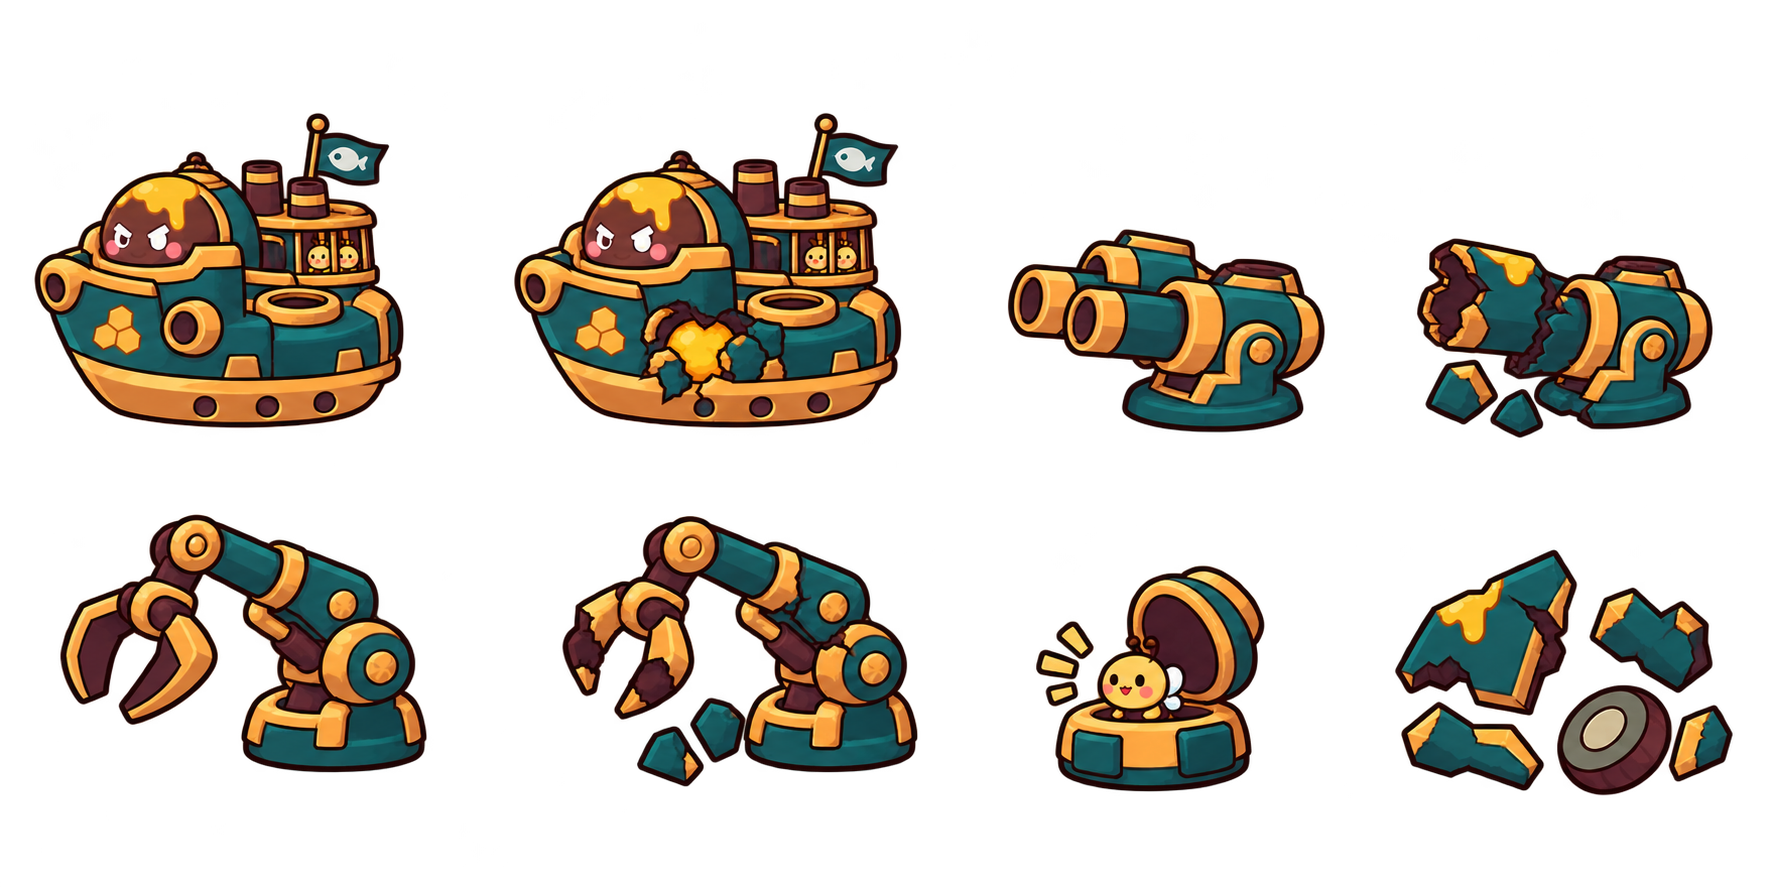
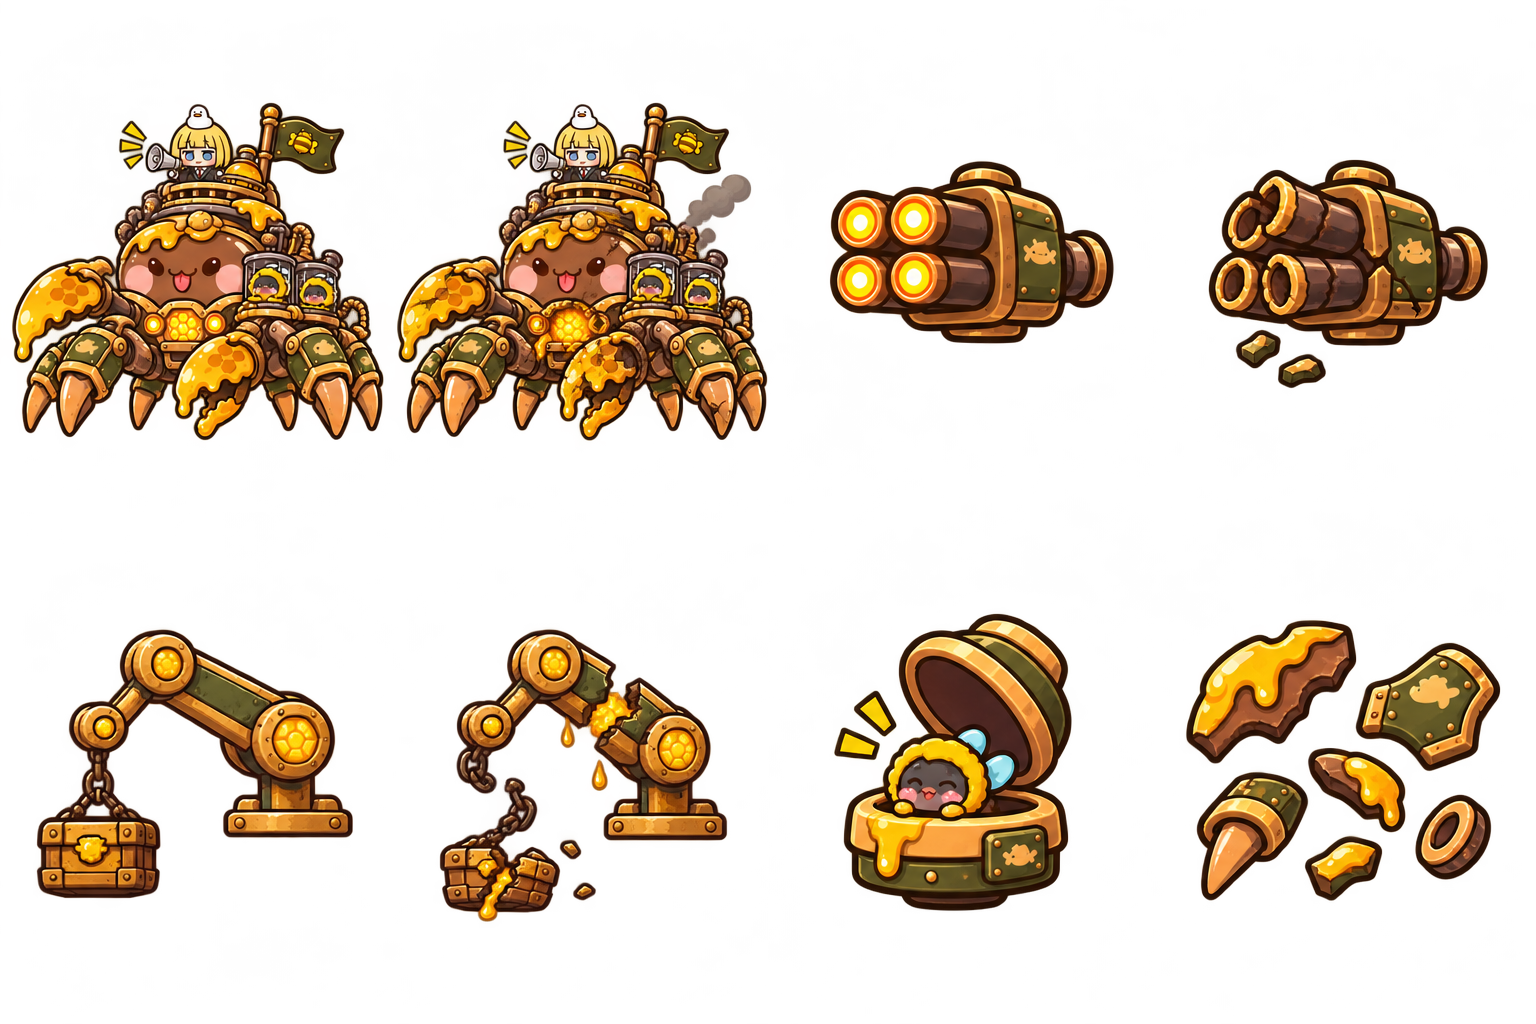
Replace town, harbor and fortress bosses with new designs
Regenerated the three boss parts sheets from the new crab, choco tank and
airship designs, refreshed SOFT_BOSSES with tools/pack-boss-sheet.py,
retuned weapon attach points and dropped the tread overlay for the tank.
Devlog updated with boss screenshots.

diff --git a/web/visuals.js b/web/visuals.js
@@ -5,7 +5,7 @@ const clamp=(x,a,b)=>Math.max(a,Math.min(b,x));
 const DRIVE_ART=[[192,55,689,542],[835,210,1435,542],[104,673,906,915],[1016,542,1434,955]];
 // Town strip wraps at x=1467 (that column repeats column 0), so the redrawn brick wall tiles without a seam.
 const GROUND_ART=[[0,14,1467,260],[0,269,1536,505],[0,516,1536,736],[0,749,1536,1024]];
-const SOFT_BOSSES={"walker":{"dest":[[44,82,470,462],[44,82,470,462],[84,202,413,419],[98,205,443,442],[43,122,458,382],[57,116,442,382],[54,40,459,452],[55,74,446,383]],"source":[[41,85,451,440],[487,84,904,440],[952,155,1319,435],[1372,180,1732,446],[64,551,416,808],[500,552,868,821],[965,489,1242,825],[1342,553,1730,825]]},"cannon":{"dest":[[39,110,486,473],[39,110,486,473],[37,105,457,456],[91,176,447,455],[70,101,469,356],[69,98,486,362],[26,45,419,399],[28,54,454,400]],"source":[[26,82,482,504],[486,82,947,504],[975,218,1362,497],[1386,251,1755,506],[73,575,437,823],[527,594,928,834],[994,571,1285,837],[1357,588,1728,852]]},"ship":{"dest":[[55,82,476,446],[55,82,476,446],[68,189,437,460],[69,166,427,460],[49,96,462,404],[134,140,381,406],[49,59,461,444],[51,100,464,430]],"source":[[34,113,404,428],[514,113,901,428],[1008,229,1325,432],[1417,238,1713,438],[60,514,427,772],[562,516,918,787],[1036,565,1265,792],[1395,550,1733,795]]},"tank":{"dest":[[76,105,467,463],[76,105,467,463],[85,200,408,422],[105,194,385,422],[80,175,413,382],[69,124,388,390],[41,76,419,449],[61,149,469,435]],"source":[[34,59,472,472],[498,60,933,475],[1002,239,1361,453],[1374,239,1746,471],[105,584,423,790],[538,586,872,814],[958,537,1259,817],[1340,554,1734,833]]}};
+const SOFT_BOSSES={"walker":{"dest":[[44,113,470,462],[44,113,470,462],[84,223,413,398],[98,232,443,415],[159,122,342,382],[156,116,343,382],[64,40,449,452],[68,74,433,383]],"source":[[8,142,384,450],[392,143,768,451],[768,206,1114,390],[1157,198,1503,382],[91,582,333,927],[461,552,703,897],[822,620,1082,898],[1177,630,1498,902]]},"cannon":{"dest":[[39,110,486,473],[39,110,486,473],[37,105,457,456],[91,176,447,455],[70,101,469,356],[69,98,486,362],[26,45,419,399],[28,54,454,400]],"source":[[26,82,482,504],[486,82,947,504],[975,218,1362,497],[1386,251,1755,506],[73,575,437,823],[527,594,928,834],[994,571,1285,837],[1357,588,1728,852]]},"ship":{"dest":[[66,82,465,446],[66,82,465,446],[68,206,437,443],[69,198,427,428],[75,96,436,404],[134,168,381,378],[101,59,409,444],[73,100,442,430]],"source":[[12,102,384,441],[396,102,768,441],[830,161,1114,344],[1206,163,1490,346],[36,629,353,899],[433,571,750,841],[834,613,1072,911],[1186,620,1501,901]]},"tank":{"dest":[[102,105,441,463],[102,105,441,463],[85,213,408,409],[105,223,385,393],[95,175,398,382],[69,148,388,366],[49,76,411,449],[83,149,447,435]],"source":[[12,96,384,489],[396,95,768,488],[768,193,1137,418],[1157,189,1526,414],[80,680,342,859],[454,680,716,859],[838,625,1086,880],[1174,628,1494,880]]}};
 // A capsule in local track coordinates. Arc length keeps links evenly spaced.
 function treadPoint(distance,length,radius){
  const total=2*length+2*Math.PI*radius;let s=((distance%total)+total)%total;

diff --git a/web/game.js b/web/game.js
@@ -135,7 +135,7 @@ const BOSSES={
 const BOSS_RIG={
  king:{sheet:'walker',k:1.35,base:.9,box:[44,82,470,462],home:300,core:[.58,.38],nameA:'턱 기관포 파괴',nameB:'미사일 포드 파괴',
   A:{u:.36,v:.64,pu:.74,pv:.6,ps:.5,mu:.18,mv:.6,box:[84,202,413,420],hp:.22,aim:.5},
-  B:{u:.86,v:.2,pu:.83,pv:.5,ps:.4,mu:.15,mv:.4,box:[43,122,458,383],hp:.18,rot:-.3},
+  B:{u:.8,v:.46,pu:.5,pv:.8,ps:.4,mu:.5,mv:.3,box:[159,122,342,382],hp:.18},
   H:{u:.6,v:.22,pu:.5,pv:.86,ps:.38}},
  cannon:{sheet:'cannon',k:1.15,base:.924,box:[39,110,486,473],home:330,core:[.53,.5],nameA:'꿀 박격포 파괴',nameB:'꿀 화염방사기 파괴',
   A:{u:.7,v:.4,pu:.5,pv:.86,ps:.38,mu:.17,mv:.33,box:[37,105,458,456],hp:.22},
@@ -143,11 +143,11 @@ const BOSS_RIG={
   H:{u:.84,v:.3,pu:.45,pv:.74,ps:.38}},
  boat:{sheet:'ship',k:1.4,base:.87,box:[54,82,476,446],home:260,core:[.54,.5],nameA:'갑판 포탑 파괴',nameB:'크레인 파괴',left:true,
   A:{u:.4,v:.36,pu:.6,pv:.86,ps:.36,mu:.17,mv:.43,box:[68,189,437,460],hp:.22,aim:.6},
-  B:{u:.74,v:.5,pu:.72,pv:.72,ps:.45,mu:.18,mv:.5,box:[49,95,462,404],hp:.18},
+  B:{u:1,v:.36,pu:.72,pv:.72,ps:.45,mu:.18,mv:.5,box:[49,95,462,404],hp:.18},
   H:{u:.62,v:.38,pu:.5,pv:.88,ps:.35}},
  tank:{sheet:'tank',k:1.5,base:.905,box:[76,104,467,463],home:330,core:[.47,.49],nameA:'주포 파괴',nameB:'측면 개틀링 파괴',
   A:{u:.36,v:.64,pu:.6,pv:.8,ps:.45,mu:.2,mv:.5,box:[85,200,408,422],hp:.2,aim:.2},
-  B:{u:.66,v:.62,pu:.55,pv:.7,ps:.45,mu:.2,mv:.47,box:[80,175,413,382],hp:.16},
+  B:{u:.74,v:.8,pu:.55,pv:.7,ps:.45,mu:.2,mv:.47,box:[80,175,413,382],hp:.16},
   H:{u:.6,v:.36,pu:.45,pv:.84,ps:.38}}};
 
 const STAGES=[

diff --git a/web/render.js b/web/render.js
@@ -490,7 +490,8 @@ function trackSidePoint(distance){
  const p=HoneyVisuals.treadPoint(distance,200,40),t=clamp(p.x/200,0,1);
  return {x:p.x*.72,y:p.y*(1-.24*t)-p.x*.09,visible:p.y>0||p.x>200};}
 function drawBossTracks(b,r){
- if(b.type!=='tank'&&b.type!=='cannon')return;
+ // The choco tank sheet paints its own treads and fish wheels; only the cannon still gets the animated overlay.
+ if(b.type!=='cannon')return;
  const d=HoneyVisuals.bossArt(r.sheet,0).dest,w=d[2]-d[0],h=d[3]-d[1];
  const distance=(b.track||0)*(b.flip?-1:1)/r.k*400/w;
  c.save();c.translate(b.x+(d[0]-256)*r.k,b.y+(d[1]-512*r.base)*r.k);c.scale(w*r.k/400,h*r.k/360);

diff --git a/tools/pack-boss-sheet.py b/tools/pack-boss-sheet.py
@@ -1,0 +1,90 @@
+"""Register a regenerated boss parts sheet (4 columns x 2 rows, any size) with the game's boss rig tables.
+
+Frames: 0 body, 1 damaged body, 2 weapon A, 3 A broken, 4 weapon B, 5 B broken, 6 hatch, 7 debris.
+For each frame the source rect is the alpha bounds inside its cell. Damaged/broken frames reuse the size of their intact
+frame (aligned to the main silhouette's bottom-centre) so swapping frames does not jump; extra smoke or fragments
+outside that box are cropped. The dest rect (512-unit rig space) keeps the old dest box: the new art is fitted inside
+it (bodies bottom-aligned so they stand on the same floor, parts centred), so hitboxes and attach points stay put.
+
+Usage: python tools/pack-boss-sheet.py <sheet-name> [...]   e.g. walker tank ship
+Rewrites the SOFT_BOSSES entries of those sheets in web/visuals.js and scripts/visual_motion.gd.
+(BOUNDS there measures the legacy *_stable.png sheets and is left alone.)
+"""
+import json, re, sys
+import numpy as np
+from PIL import Image
+
+ALPHA = 24
+
+
+def bbox(mask):
+    ys, xs = np.nonzero(mask)
+    return [int(xs.min()), int(ys.min()), int(xs.max()) + 1, int(ys.max()) + 1]
+
+
+def main_bbox(mask):
+    """Bounds of the largest connected blob (ignores loose fragments and smoke puffs)."""
+    from collections import deque
+    h, w = mask.shape
+    seen = np.zeros_like(mask, bool); best = None
+    for y0, x0 in zip(*np.nonzero(mask[::4, ::4])):
+        y0 *= 4; x0 *= 4
+        if seen[y0, x0]: continue
+        q = deque([(y0, x0)]); seen[y0, x0] = True; pts = []
+        while q:
+            y, x = q.popleft(); pts.append((y, x))
+            for dy, dx in ((1, 0), (-1, 0), (0, 1), (0, -1)):
+                ny, nx = y + dy, x + dx
+                if 0 <= ny < h and 0 <= nx < w and mask[ny, nx] and not seen[ny, nx]:
+                    seen[ny, nx] = True; q.append((ny, nx))
+        if best is None or len(pts) > len(best): best = pts
+    ys = [p[0] for p in best]; xs = [p[1] for p in best]
+    return [min(xs), min(ys), max(xs) + 1, max(ys) + 1]
+
+
+def fit(src, box, bottom):
+    sw, sh = src[2] - src[0], src[3] - src[1]
+    bw, bh = box[2] - box[0], box[3] - box[1]
+    s = min(bw / sw, bh / sh); w, h = sw * s, sh * s
+    x0 = (box[0] + box[2]) / 2 - w / 2
+    y0 = box[3] - h if bottom else (box[1] + box[3]) / 2 - h / 2
+    return [round(x0), round(y0), round(x0 + w), round(y0 + h)]
+
+
+def pack(name, old_dest):
+    im = np.asarray(Image.open(f"assets/generated/bosses/{name}_ink.png").convert("RGBA"))
+    H, W = im.shape[:2]; cw, ch = W // 4, H // 2
+    src, main = [], []
+    for f in range(8):
+        cx, cy = (f % 4) * cw, (f // 4) * ch
+        m = im[cy:cy + ch, cx:cx + cw, 3] > ALPHA
+        b, mb = bbox(m), main_bbox(m)
+        src.append([b[0] + cx, b[1] + cy, b[2] + cx, b[3] + cy]); main.append([mb[0] + cx, mb[1] + cy, mb[2] + cx, mb[3] + cy])
+    for broken, intact in ((1, 0), (3, 2), (5, 4)):
+        w, h = src[intact][2] - src[intact][0], src[intact][3] - src[intact][1]
+        m = main[broken]; mx = (m[0] + m[2]) // 2
+        src[broken] = [int(v) for v in (mx - w // 2, m[3] - h, mx - w // 2 + w, m[3])]
+    dest = [fit(src[f], old_dest[f], f in (0, 1)) for f in range(8)]
+    dest[1] = dest[0]
+    return {"dest": dest, "source": src}
+
+
+def rewrite(path, const, sep, names, tables):
+    text = open(path, encoding="utf-8").read()
+    m = re.search(rf"const {const}\s*{sep}\s*(\{{.*?\}});?\n", text)
+    data = json.loads(m.group(1))
+    for n in names: data[n] = tables[n]
+    text = text[:m.start(1)] + json.dumps(data, separators=(",", ":")) + text[m.end(1):]
+    open(path, "w", encoding="utf-8", newline="\n").write(text)
+
+
+names = sys.argv[1:]
+js = open("web/visuals.js", encoding="utf-8").read()
+soft = json.loads(re.search(r"const SOFT_BOSSES=(\{.*?\});\n", js).group(1))
+soft_new = {}
+for n in names:
+    soft_new[n] = pack(n, soft[n]["dest"])
+    print(n, "dest", soft_new[n]["dest"])
+    print(n, "source", soft_new[n]["source"])
+rewrite("web/visuals.js", "SOFT_BOSSES", "=", names, soft_new)
+rewrite("scripts/visual_motion.gd", "SOFT_BOSSES", ":=", names, soft_new)

diff --git a/docs/devlog/2026-11-10.md b/docs/devlog/2026-11-10.md
@@ -1,6 +1,6 @@
 # 개발일지 — 2026-11-10
 
-조작감 보정, 구역이 안 넘어가던 버그 수정, 인게임 배경 아트 전면 교체까지 정리한 기록입니다.
+조작감 보정, 구역이 안 넘어가던 버그 수정, 인게임 배경 아트 전면 교체, 보스 3종 교체까지 정리한 기록입니다.
 스크린샷은 모두 Godot 4.7.1 빌드에서 직접 캡처했습니다(`--capture` 모드, 1280×720).
 
 ![마을 스테이지](img/2026-11-10/town.jpg)
@@ -54,10 +54,31 @@
 | 공장 | 항구 |
 |---|---|
 | ![공장](img/2026-11-10/factory.jpg) | ![항구](img/2026-11-10/harbor.jpg) |
-| **요새** | **공장 보스전** |
+| **요새** | **공장 보스전 (이전 디자인)** |
 | ![요새](img/2026-11-10/fortress.jpg) | ![공장 보스전](img/2026-11-10/boss_factory.jpg) |
 
 > 참고: 그 전에 했던 배경 이음매 작업(좌우 반전 대신 반복 타일, `tools/bg-seamless.py` → `backgrounds_wrap.png`)은 구역별 배경 패널로 바뀌면서 인게임에서는 더 이상 쓰이지 않습니다.
+
+## 4. 보스 3종 교체
+
+새 보스 디자인 그림 3장을 받아 마을, 항구, 요새 보스를 바꿨습니다. 공장 보스(오리고기 꿀 공성포)는 새 그림을 받으면 바꿉니다.
+
+보스는 4열 x 2행 부품 시트(몸체, 부서진 몸체, 무기 A·B와 각 파손형, 보급 해치, 파편)를 조립해서 그립니다. 받은 그림을 디자인 기준으로 같은 8칸 시트를 Codex 이미지 생성으로 새로 그렸고, `tools/pack-boss-sheet.py`로 칸별 영역을 측정해 `SOFT_BOSSES`(`web/visuals.js`, `scripts/visual_motion.gd`)를 갱신했습니다. 새 그림은 기존 표시 영역 안에 맞춰 넣어 판정 범위가 크게 바뀌지 않게 했습니다.
+
+| 스테이지 | 새 보스 | 무기 A | 무기 B |
+|---|---|---|---|
+| 마을 | 꿀방울 허니 비행선 | 기수의 꿀 대포 | 꿀 미사일 포드 |
+| 항구 | 꿀 메카 크랩 | 4연장 개틀링 | 화물 크레인 |
+| 요새 | 꿀방울 초코 탱크 | 꿀 주포 | 측면 개틀링 |
+
+- 무기 B는 패턴 이름에 맞게 서로 바꿔 끼웠습니다. 마을 보스는 "미사일 폭격", 항구 보스는 "크레인 투하" 패턴이라 미사일 포드는 비행선에, 크레인은 크랩에 붙였습니다.
+- 무기 부착 위치(`BOSS_RIG`)를 조정했습니다. 탱크 측면 개틀링은 얼굴을 가려서 몸통 아래로, 크랩 크레인은 등 뒤로 옮겼습니다.
+- 새 탱크 그림에는 궤도가 그려져 있어서, 탱크 위에 바퀴와 궤도를 덧그리던 처리는 껐습니다(공장 보스만 유지). 그래서 지금 탱크 궤도는 움직이지 않습니다.
+- 이전 시트는 `build/boss_restyle/old/`에 백업했습니다.
+
+| 마을 | 항구 | 요새 |
+|---|---|---|
+| ![마을 보스](img/2026-11-10/boss_town_airship.jpg) | ![항구 보스](img/2026-11-10/boss_harbor_crab.jpg) | ![요새 보스](img/2026-11-10/boss_fortress_tank.jpg) |
 
 ## 테스트
 
